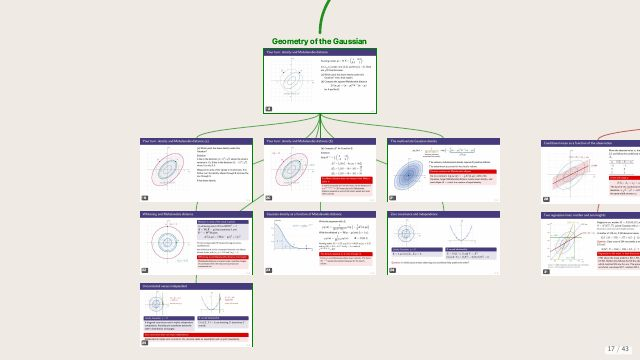
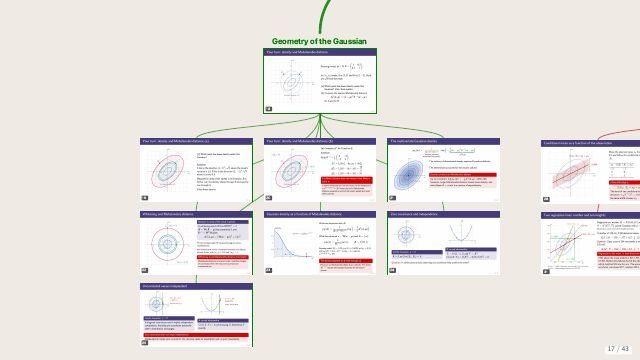
EPL slides: sharp images for the slides where a map zoom starts or ends

diff --git a/docs/teaching/epl/slides/shared/deckmap.js b/docs/teaching/epl/slides/shared/deckmap.js
@@ -94,8 +94,12 @@
     };
     heads.forEach(h => { if (h.slide < 0) { const o = off(hub); h.at = [h.at[0] + o[0], h.at[1] + o[1]]; } });
     const pos = b.map((p, i) => { const o = off(i); return [p[0] + o[0], p[1] + o[1]]; });
-    const thumbs = all.map((s, i) => `img/thumbs/${i + 1}.jpg`);
-    return (M = { n, O, pre, hub, heads, colour, pos, drawn, thumbs });
+    // a slide next to a map slide is seen at full size when a zoom starts or
+    // ends on it, so on screen it is drawn from a sharp copy (make_thumbs.py)
+    const near = new Set(), small = all.map((s, i) => `img/thumbs/${i + 1}.jpg`);
+    all.forEach((s, i) => { if (isMap(s)) [i - 1, i + 1].forEach(j => { if (all[j] && !isMap(all[j])) near.add(j); }); });
+    const thumbs = small.map((t, i) => !PRINT && near.has(i) ? `img/thumbs/full/${i + 1}.jpg` : t);
+    return (M = { n, O, pre, hub, heads, colour, pos, drawn, thumbs, small });
   }
 
   // camera rectangles, in map units
@@ -167,7 +171,8 @@
       mk('rect', { x, y, width: W, height: H, fill: 'none', stroke: col, 'stroke-width': 2 * sw }, gb);
       const g = mk('g', { class: 'mapslide-thumb', 'data-n': i + 1 }, gs);
       mk('rect', { x, y, width: W, height: H, fill: '#fff' }, g);
-      mk('image', { href: m.thumbs[i], x, y, width: W, height: H, preserveAspectRatio: 'xMidYMid meet' }, g);
+      const im = mk('image', { href: m.thumbs[i], x, y, width: W, height: H, preserveAspectRatio: 'xMidYMid meet' }, g);
+      if (m.thumbs[i] !== m.small[i]) im.addEventListener('error', () => im.setAttribute('href', m.small[i]), { once: true });
       mk('rect', { x: x + 16, y: y + H - 72, width: 22 + 26 * String(i + 1).length, height: 56, rx: 10, fill: 'rgba(40,36,33,.78)' }, gn);
       mk('text', { x: x + 27, y: y + H - 29, fill: '#fff', 'font-size': 40, 'font-weight': 600, 'font-family': 'system-ui,-apple-system,sans-serif' }, gn).textContent = String(i + 1);
     });
